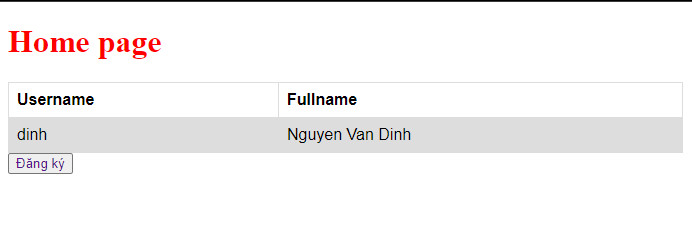
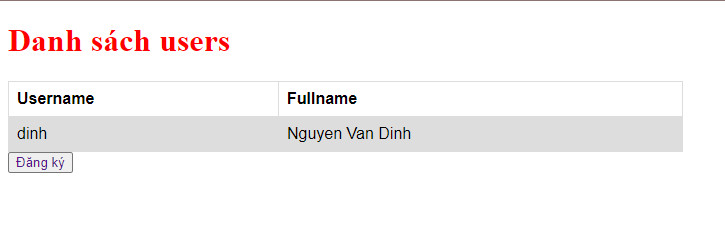
x

diff --git a/index.js b/index.js
@@ -2,6 +2,7 @@ const express = require('express');
 const app = express();
 const port = 3000;
 
+// middleware để chuyển từ form-data sang req.body (sử dụng js để post)
 app.use(express.json());
 
 const users = [
@@ -9,6 +10,16 @@ const users = [
         username: 'dinh',
         password: '123',
         fullname: 'Nguyen Van Dinh'
+    },
+    {
+        username: 'hoa',
+        password: '456',
+        fullname: 'Le Thi Hoa'
+    },
+    {
+        username: 'huong',
+        password: '456',
+        fullname: 'Nguyen Thi Huong'
     }
 ]
 
@@ -18,6 +29,7 @@ app.post('/register', (req, res) => {
     var user = req.body;
     var check = false;
 
+    // Kiểm tra xem thử user này đã tồn tại chưa?
     for (const el of users) {
         if (user.username === el.username) {
             check = true;

diff --git a/client/js/register.js b/client/js/register.js
@@ -3,6 +3,7 @@ var form = $('#register-form');
 form.on('submit', async function (e) {
     e.preventDefault();
 
+    // Lấy dữ liệu nhập vào từ form
     const formValue = {};
     for (const el of e.target) {
         if (el.name) {

diff --git a/client/index.html b/client/index.html
@@ -10,7 +10,7 @@
 </head>
 
 <body>
-    <h1>Home page</h1>
+    <h1>Danh sách users</h1>
     <div id="table"></div>
     <button><a href="register.html">Đăng ký</a></button>
 

diff --git a/README.md b/README.md
@@ -2,7 +2,7 @@
 
 1. Chạy dòng lệnh **npm start** để khởi chạy server => file index.js
 
-2. Truy cập trình duyệt ở địa chỉ http://localhost:3000/ để truy cập trang chủ
+2. Truy cập trình duyệt ở địa chỉ http://localhost:3000/ để truy cập trang Danh sách users
 ![](images/home.jpg)
 
 3. Chọn chức năng Đăng ký ở trang chủ, nhập thông tin username, password và fullname của user muốn đăng ký
